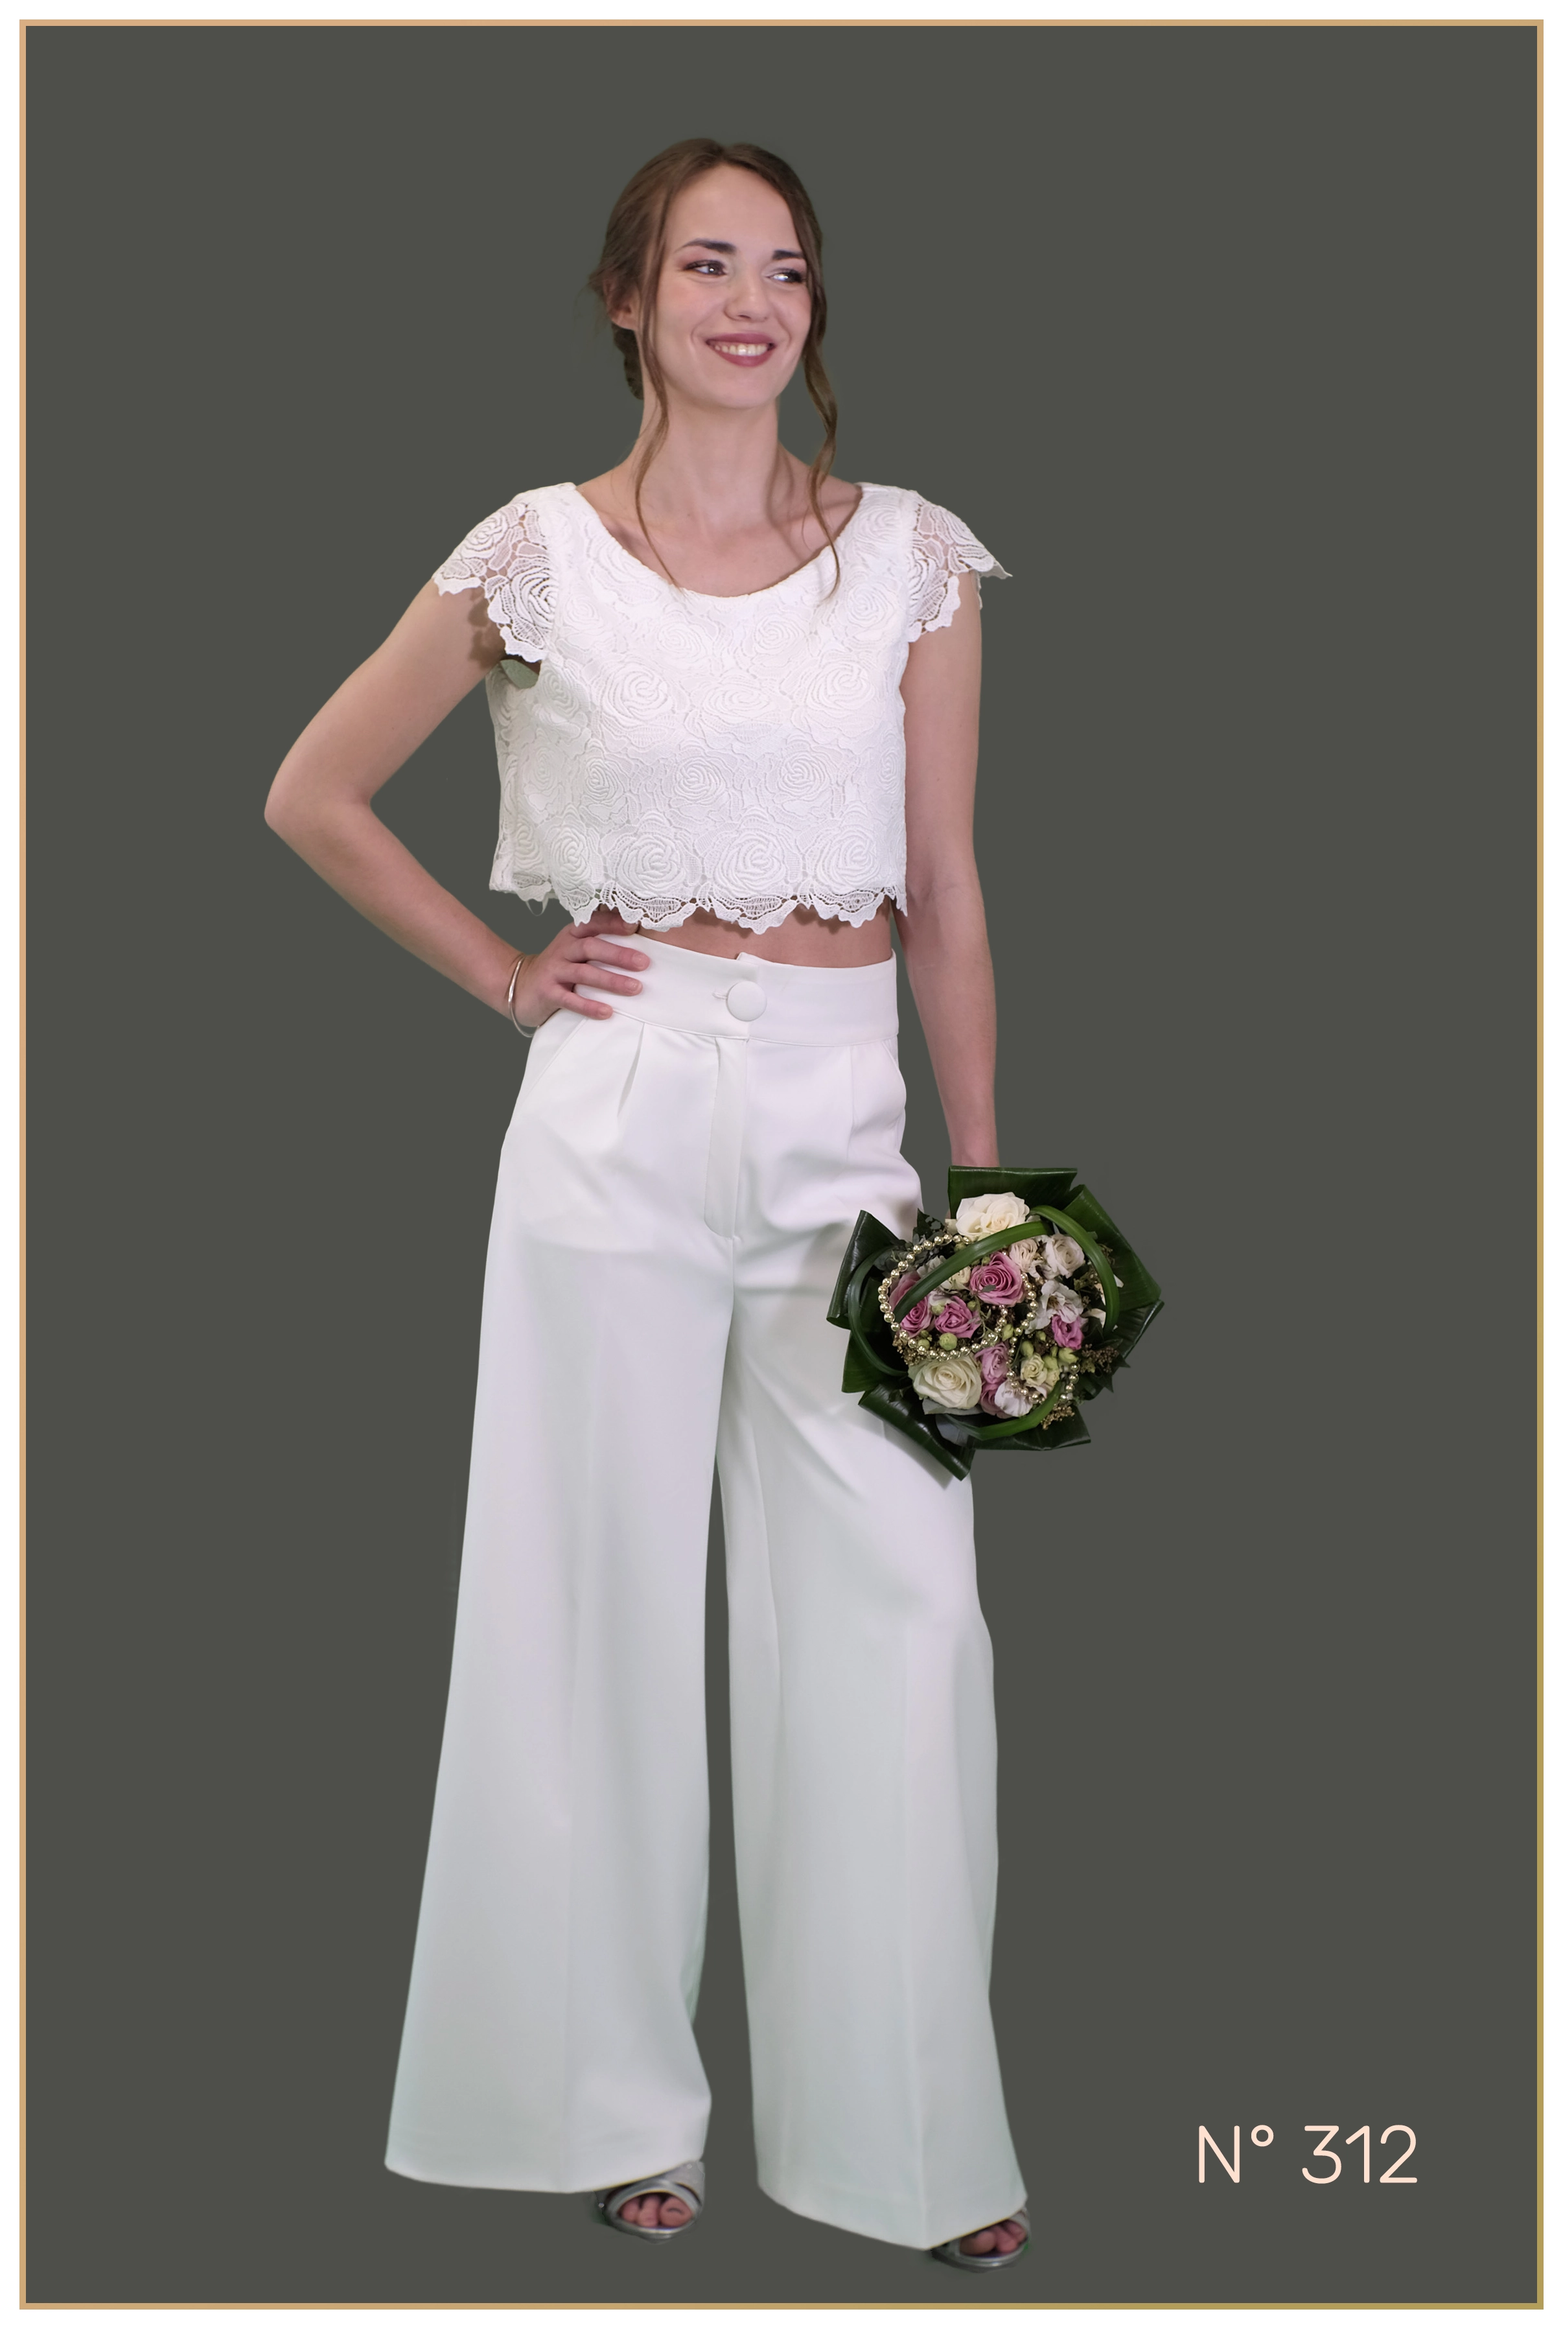
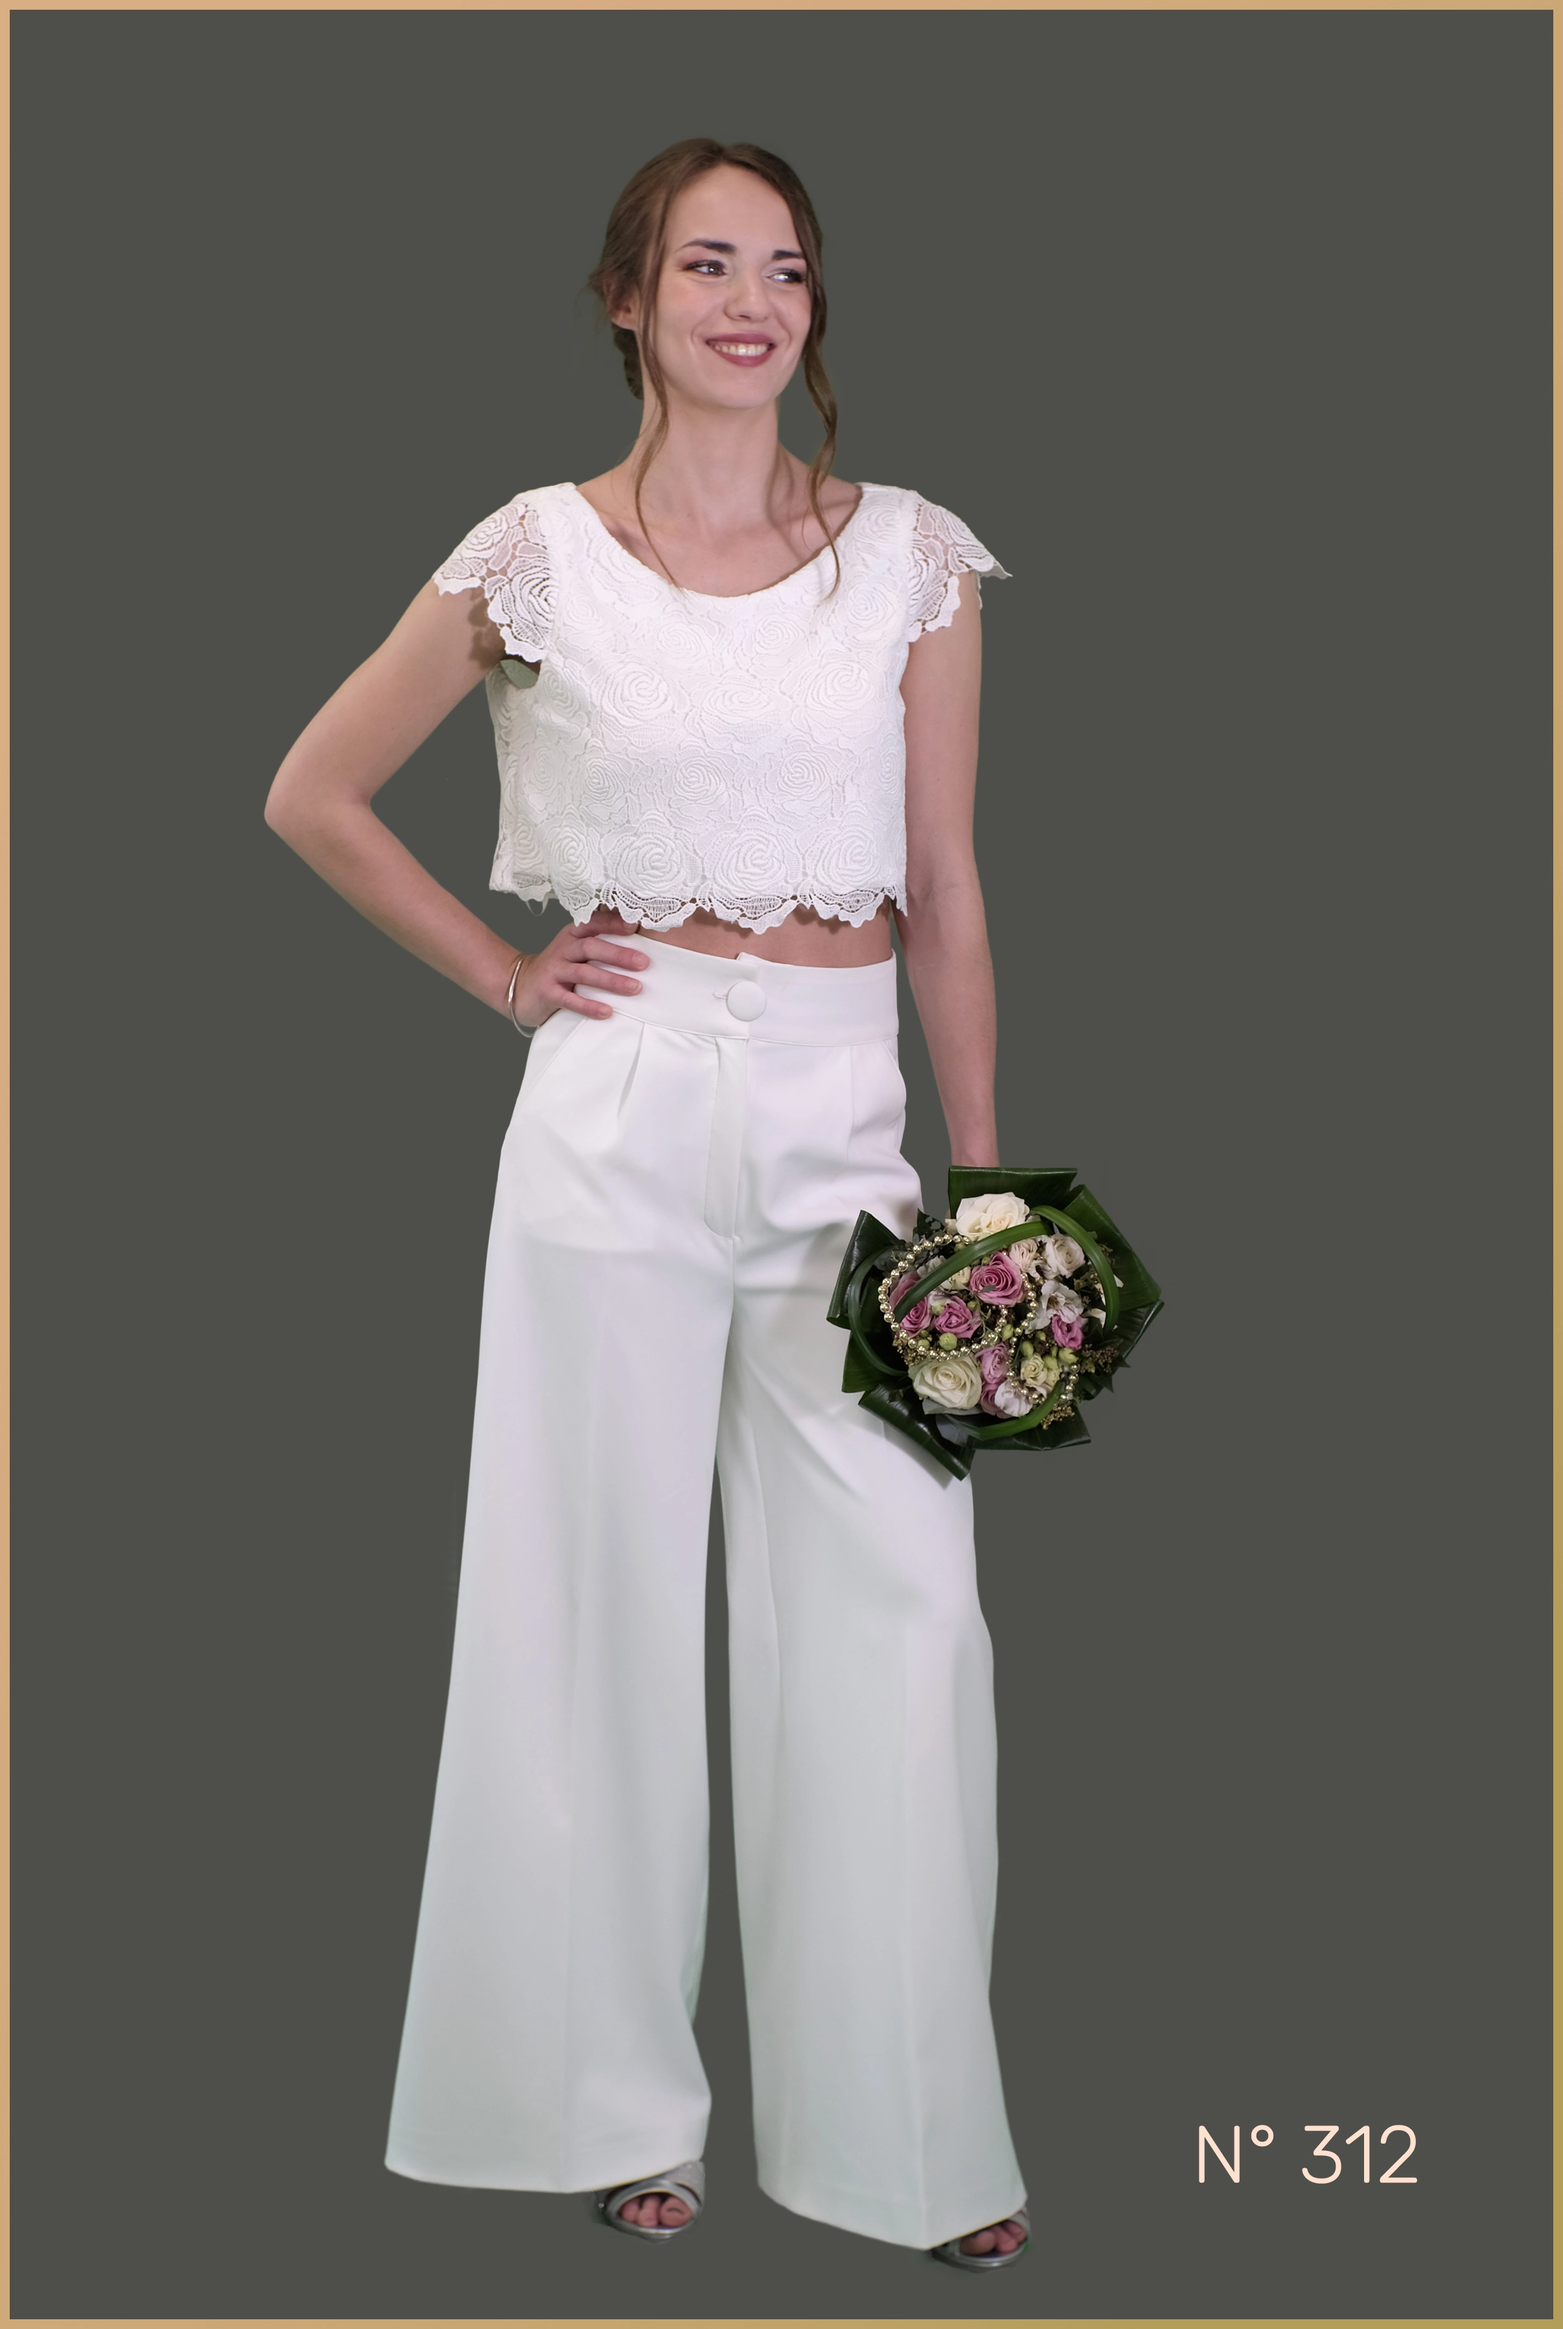
🎉 Initial commit: ajout des fichiers du formulaire de contact

Changed region(s): [[0.0, 0.0, 1.0, 1.0]]

diff --git a/js/contact.js b/js/contact.js
@@ -1,4 +1,13 @@
-// Implementer le JS de ma page
+
+// Initialisation d'EmailJS avec votre User ID
+(function () {
+  emailjs.init("JCQqRbPV8QhBAFAAW"); // USER ID d'EmailJS.com
+})();
+
+// Références des champs du formulaire
+
+const form = document.getElementById("contact-form");
+const alertContainer = document.getElementById("alertContainer");
 
 const inputNom = document.getElementById("nomInput");
 const inputPreNom = document.getElementById("prenomInput");
@@ -8,6 +17,12 @@ const inputObjet = document.getElementById("objetInput");
 const inputMessage = document.getElementById("messageInput");
 const btnEnvoyer = document.getElementById("btn-envoyer");
 
+// Assurez-vous que le bouton est désactivé au chargement initial
+window.onload = function () {
+  btnEnvoyer.disabled = true; // Désactive le bouton "Envoyer"
+};
+
+// Événements pour la validation dynamique du formulaire
 inputNom.addEventListener("keyup", validateForm);
 inputPreNom.addEventListener("keyup", validateForm);
 inputEmail.addEventListener("keyup", validateForm);
@@ -23,6 +38,7 @@ function validateForm() {
   const objetOk = validateRequired(inputObjet);
   const messageOk = validateRequired(inputMessage);
 
+  // Si tous les champs sont valides, activer le bouton "Envoyer"
   if (nomOk && prenomOk && mailOk && objetOk && messageOk) {
     btnEnvoyer.disabled = false;
   } else {
@@ -30,33 +46,111 @@ function validateForm() {
   }
 }
 
-function validateMail(input) {
-  // Definir mon Regex
-  const emailRegex = /^[^\s@]+@[^\s@]+\.[^\s@]+$/;
-  const mailUser = input.value;
-  if (mailUser.match(emailRegex)) {
-    // C'est D'accord
+
+/**
+ * Vérifie si le champ est rempli
+ * @param {HTMLInputElement} input - Champ à valider
+ * @returns {boolean}
+ */
+
+function validateRequired(input) {
+  if (input.value.trim() != "") {
+    
+    // Champ valide
     input.classList.add("is-valid");
     input.classList.remove("is-invalid");
     return true;
   } else {
-    // C'est PAS D'accord
+    
+    // Champ invalide
     input.classList.remove("is-valid");
     input.classList.add("is-invalid");
     return false;
   }
 }
 
-function validateRequired(input) {
-  if (input.value != "") {
-    // C'est D'accord
+/**
+ * Valide l'adresse email
+ * @param {HTMLInputElement} input - Champ email à valider
+ * @returns {boolean}
+ */
+
+function validateMail(input) {
+  
+  // Regex pour valider les emails
+  const emailRegex = /^[^\s@]+@[^\s@]+\.[^\s@]+$/;
+  const mailUser = input.value;
+  if (mailUser.match(emailRegex)) {
+    
+    // Email valide
     input.classList.add("is-valid");
     input.classList.remove("is-invalid");
     return true;
   } else {
-    // C'est PAS D'accord
+    
+    // Email invalide
     input.classList.remove("is-valid");
     input.classList.add("is-invalid");
     return false;
   }
 }
+
+// Réinitialisation complète du formulaire
+function reinitialiserFormulaire() {
+  form.reset(); // Réinitialise les valeurs des champs
+  btnEnvoyer.disabled = true; // Désactive à nouveau le bouton "Envoyer"
+
+  // Supprime tous les styles de validation (is-valid / is-invalid)
+  const inputs = form.querySelectorAll("input, textarea");
+  inputs.forEach((input) => {
+    input.classList.remove("is-valid", "is-invalid");
+  });
+}
+
+
+// Validation des champs et envoi du formulaire
+form.addEventListener("submit", function (event) {
+  event.preventDefault(); // Empêche le rechargement de la page
+
+  // Envoi des données à EmailJS
+  emailjs
+    .sendForm("service_ocyrudb", "template_dj01rjf", form)
+    .then(
+      function (response) {
+        // Succès
+        console.log("SUCCESS!", response.status, response.text);
+        afficherAlerte("Votre message a été envoyé avec succès !", "success");
+        reinitialiserFormulaire();// Réinitialiser le formulaire
+      },
+      function (error) {
+        // Échec
+        console.log("FAILED...", error);
+        afficherAlerte(
+          "Une erreur est survenue lors de l'envoi du message : " + JSON.stringify(error),
+          "danger"
+        );
+      }
+    );
+});
+
+// Fonction pour afficher une alerte Bootstrap
+function afficherAlerte(message, type) {
+  alertContainer.innerHTML = `
+    <div class="alert alert-${type} alert-dismissible fade show" role="alert">
+      ${message}
+      <button type="button" class="btn-close" data-bs-dismiss="alert" aria-label="Close"></button>
+    </div>
+  `;
+
+  // Supprime l'alerte après 7 secondes
+  setTimeout(() => {
+    const alertElement = alertContainer.querySelector(".alert");
+    if (alertElement) {
+      alertElement.classList.remove("show");
+      alertElement.classList.add("fade");
+      setTimeout(() => alertElement.remove(), 500);
+    }
+  }, 7000);
+}
+
+

diff --git a/pages/contact.html b/pages/contact.html
@@ -21,8 +21,12 @@
     <div class="row gy-4 gy-md-5 gy-lg-0 align-items-md-center">
       <div class="col-12 col-lg-6">
         <div class="border overflow-hidden">
-          <form action="#!">
+
+
+          <form id="contact-form">
             <div class="row gy-4 gy-xl-5 p-4 p-xl-5">
+
+              <!-- Nom -->
               <div class="col-12 col-md-6">
                 <label for="nomInput" class="form-label"
                   >Nom : <span class="text-danger">*</span></label
@@ -31,13 +35,15 @@
                   type="text"
                   class="form-control"
                   id="nomInput"
-                  name="nomInput"
+                  name="from_name"
                   value=""
                   required
                   placeholder="Votre nom"
                 />
                 <div class="invalid-feedback">Le nom est requis</div>
               </div>
+
+              <!-- Prénom -->
               <div class="col-12 col-md-6">
                 <label for="prenomInput" class="form-label"
                   >Prénom : <span class="text-danger">*</span></label
@@ -46,7 +52,7 @@
                   type="text"
                   class="form-control"
                   id="prenomInput"
-                  name="prenomInput"
+                  name="prenom"
                   value=""
                   required
                   placeholder="Votre prénom"
@@ -54,6 +60,7 @@
                 <div class="invalid-feedback">Le prénom est requis</div>
               </div>
 
+              <!-- Email -->
               <div class="col-12 col-md-6">
                 <label for="emailInput" class="form-label"
                   >Email : <span class="text-danger">*</span></label
@@ -77,7 +84,7 @@
                     type="email"
                     class="form-control"
                     id="emailInput"
-                    name="emailInput"
+                    name="reply_to"
                     value=""
                     required
                     placeholder="Votre email"
@@ -87,6 +94,8 @@
                   </div>
                 </div>
               </div>
+
+              <!-- Téléphone -->
               <div class="col-12 col-md-6">
                 <label for="telephoneInput" class="form-label"
                   >Téléphone :</label
@@ -110,12 +119,14 @@
                     type="tel"
                     class="form-control"
                     id="telephoneInput"
-                    name="telephoneInput"
+                    name="telephone"
                     value=""
                     placeholder="Votre Numéro de Téléphone"
                   />
                 </div>
               </div>
+
+              <!-- Objet -->
               <div class="col-12">
                 <label for="objetInput" class="form-label"
                   >Objet : <span class="text-danger">*</span></label
@@ -124,13 +135,15 @@
                   type="text"
                   class="form-control"
                   id="objetInput"
-                  name="objetInput"
+                  name="objet"
                   value=""
                   required
                   placeholder="Écrivez un objet"
                 />
                 <div class="invalid-feedback">L'objet est requis</div>
               </div>
+
+              <!-- Message -->
               <div class="col-12">
                 <label for="messageInput" class="form-label"
                   >Message : <span class="text-danger">*</span></label
@@ -138,13 +151,15 @@
                 <textarea
                   class="form-control"
                   id="messageInput"
-                  name="messageInput"
+                  name="message"
                   rows="10"
                   required
                   placeholder="Veuillez entrer votre message ici ..."
                 ></textarea>
                 <div class="invalid-feedback">Le message est requis</div>
               </div>
+
+              <!-- Bouton Envoyer -->
               <div class="col-12">
                 <div class="d-grid">
                   <button
@@ -158,6 +173,9 @@
               </div>
             </div>
           </form>
+          <div id="alertContainer"></div>
+
+
         </div>
       </div>
       <div class="col-12 col-lg-6">

diff --git a/index.html b/index.html
@@ -290,5 +290,7 @@
     <script type="module" src="Router/router.js"></script>
 
     <script src="node_modules/bootstrap/dist/js/bootstrap.bundle.min.js"></script>
+
+    <script src="https://cdn.emailjs.com/dist/email.min.js"></script>
   </body>
 </html>
